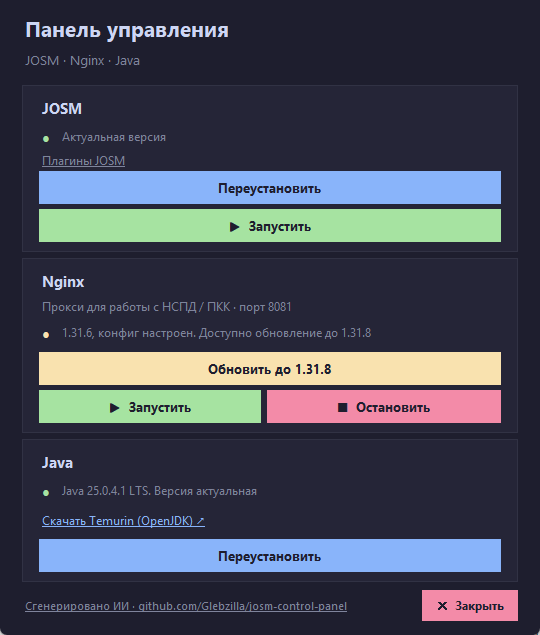
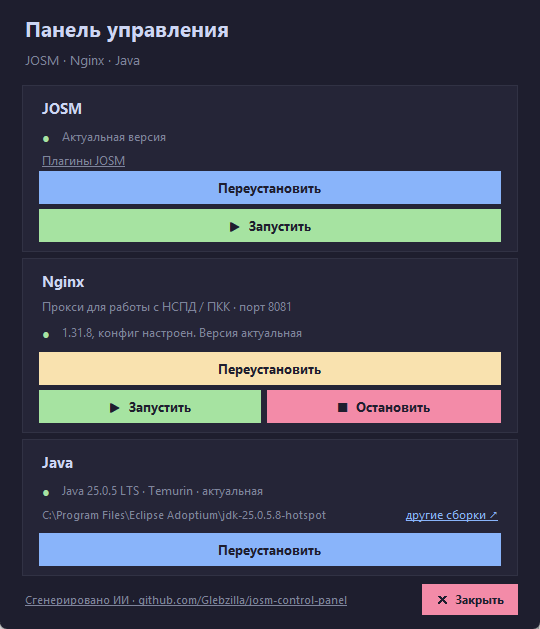
Java: show vendor and path, add JDK alternatives with license marks, launch JOSM with detected java.exe

diff --git a/README.md b/README.md
@@ -37,6 +37,25 @@ Nginx-прокси на порту **8081**. Панель:
 Панель скачивает jar-файлы из этих источников в `%APPDATA%\JOSM\plugins`.
 Ссылки в окне «Плагины JOSM» кликабельны.
 
+## Java: любые сборки, обновление — Temurin
+
+Панель находит `java.exe` в `PATH` и в стандартных папках, показывает вендора
+и путь JDK (`Java 25.0.5 · Temurin`) и запускает JOSM именно этим
+`java.exe` — а не абстрактным `java`, который может оказаться другим.
+
+Ссылка «другие сборки» открывает список альтернатив: Eclipse Temurin,
+Microsoft Build of OpenJDK, Amazon Corretto, Azul Zulu, BellSoft Liberica
+и Oracle JDK. Это только ссылки на официальные сайты — панель ничего не
+ставит автоматически. Кнопкой обновляется только Temurin: у него есть API
+с готовым MSI, у остальных стабильной «latest»-ссылки нет.
+
+![Окно «Другие сборки Java»](docs/java-builds.png)
+
+В окне видно, какая сборка используется сейчас, и какая она по лицензии:
+все перечисленные, кроме Oracle JDK, — открытые (GPLv2+CE) сборки на базе
+OpenJDK. Для JOSM лицензия не важна (он просто запускается на JDK 17+),
+но полезна, если вы будете распространять сборку вместе с Java.
+
 ## Быстрый старт
 
 1. Скачайте `JOSM_Control_Panel.exe` из
@@ -73,8 +92,9 @@ build.bat
 - **Nginx останавливается перед обновлением** — после него нажмите
   «Запустить» заново.
 - **Java ставится с одним запросом UAC.** Скачивается MSI Temurin в
-  `Downloads`, установка тихая. После установки может понадобиться
-  перезапустить панель и JOSM, чтобы обновился `PATH`.
+  `Downloads`, установка тихая. Если Java нет, панель предложит её
+  поставить; если стоит другая сборка (Microsoft, Corretto, Zulu…), она
+  будет видна в карточке, но обновление ставит Temurin рядом.
 - **Плагины JOSM** скачиваются в `%APPDATA%\JOSM\plugins`. Если JOSM
   запущен и держит файл — закройте его и повторите. После установки JOSM
   нужно перезапустить.
@@ -90,6 +110,7 @@ josm_control_panel.ico   — иконка
 build.bat                — сборка exe (PyInstaller)
 requirements.txt         — зависимости для сборки
 docs/screenshot.png      — скриншот
+docs/java-builds.png     — скриншот окна «Другие сборки Java»
 ```
 
 ## Лицензия
